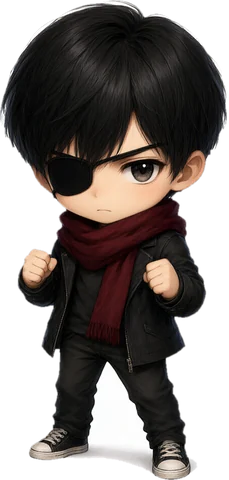
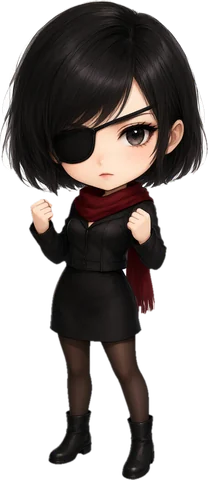
剧本杀·集卡闯关：程走柳改回妹妹重画；统一名字八步龙一/冬野大我/罗曼死

diff --git a/jbs-game.html b/jbs-game.html
@@ -396,7 +396,7 @@ P('captain','船长','LZ','SSR','r','船长',L('#d9dde3','#1d2a44','#e3b42e','sh
  [['buff','aall','as',.35,5],['healp','aall',.15]],['满帆！','愚人号不会沉。','小家伙们，坐稳了。']);
 P('zhuqingxian','祝清苋','LZ','SSR','m','画师',L('#e3d7c5','#f4efe6','#7ab36b','long','brush'),'主观色彩','让全体敌人受到伤害 +25% 5 秒，并对生命最低的敌人造成大额魔伤',
  [['vuln','all',5,.25],['mag','low',360]],['世界是我看到的颜色。','哥，你挡着光了。','灰色也很美。']);
-P('death','死','LZ','SSR','a','大反派',L('#0e0e10','#0e0e10','#8a8f96','long','mask'),'命运计算','处决生命低于 30% 的敌人，否则造成 1.8 倍伤害并使其流血',
+P('death','罗曼死','LZ','SSR','a','大反派',L('#0e0e10','#0e0e10','#8a8f96','long','mask'),'命运计算','处决生命低于 30% 的敌人，否则造成 1.8 倍伤害并使其流血',
  [['exec','low',.3],['hit','low',1.8],['dot','low','血',40,4]],['一切早已算好。','你的时间到了。','别害怕，这只是终点。'],{pass:{rage:1}});
 /* 如故 */
 P('weiziyao','卫子谣','RG','R','m','才女',L('#141114','#d9c6e8','#b691d6','long','book'),'慧极必伤','对目标造成魔伤并沉默 1.5 秒；被动：挨打 10 次后攻击翻倍',
@@ -470,13 +470,13 @@ P('baka','马鹿','WB','SR','f','笨蛋',L('#e3b42e','#c8323c','#141414','curly'
  [['rand',[['hit','all',1.2]],[['shield','self',400],['taunt','self',2]]]],['我才不是笨蛋！','冲啊！','诶？赢了吗？']);
 P('akimizu','秋水','WB','SSR','s','秋水',L('#d9dde3','#2a3a55','#7ab3d6','long'),'秋水','对攻击最高的敌人造成 2.4 倍伤害，并让其受伤 +20% 4 秒',
  [['vuln','top',4,.2],['hit','top',2.4]],['一剑秋水。','你不配做王。','冬野，我替你斩。'],{crit:.2});
-P('fuyuno','冬野','WB','SSR','r','领袖',L('#f4f6f8','#1c2433','#7ab3d6','short','coat'),'王的号令','全队回复 15% 生命、攻击 +25% 6 秒、法力 +20',
+P('fuyuno','冬野大我','WB','SSR','r','领袖',L('#f4f6f8','#1c2433','#7ab3d6','short','coat'),'王的号令','全队回复 15% 生命、攻击 +25% 6 秒、法力 +20',
  [['healp','aall',.15],['buff','aall','atk',.25,6],['mp','aall',20]],['跟我来。','王不见王，那就由我来当。','大家都要活着回去。']);
 /* 推理本 */
-P('yaobulongyi','八部龙一','HU','SSR','s','名侦探',L('#2a2a2a','#5a4a3a','#e8e0d0','short','coat'),'烟','看破攻击最高的敌人（受伤 +35% 5 秒）并造成 2 倍伤害',
+P('yaobulongyi','八步龙一','HU','SSR','s','名侦探',L('#2a2a2a','#5a4a3a','#e8e0d0','short','coat'),'烟','看破攻击最高的敌人（受伤 +35% 5 秒）并造成 2 倍伤害',
  [['vuln','top',5,.35],['hit','top',2]],['真相藏在烟里。','鬼，别抢我台词。','凶手就在这座岛上。'],{crit:.15});
 P('gui','鬼','HU','SR','a','名侦探',L('#d9dde3','#141414','#c8323c','short','mask'),'推理','对生命最低的敌人造成 2 倍伤害并沉默 2 秒',
- [['hit','low',2],['sil','low',2]],['人比鬼可怕。','八部，你慢了。','我已经知道了。']);
+ [['hit','low',2],['sil','low',2]],['人比鬼可怕。','八步，你慢了。','我已经知道了。']);
 P('yuan','鸢','HU','SSR','a','大反派',L('#141114','#5a1520','#c0c4cc','long','blade'),'解体','对目标连斩 6 次，每次 0.7 倍伤害并流血',
  [['hits','t',6,.7],['dot','t','血',40,4]],['完美的解体。','侦探先生，来抓我。','双羽馆欢迎你。'],{pass:{rage:1}});
 P('qinyang','秦阳','SZ','SR','f','少年',L('#3a2a20','#4a6b3a','#c8323c','short'),'山楂林','对前排敌人造成 1.4 倍伤害，全队回复 10% 生命',
